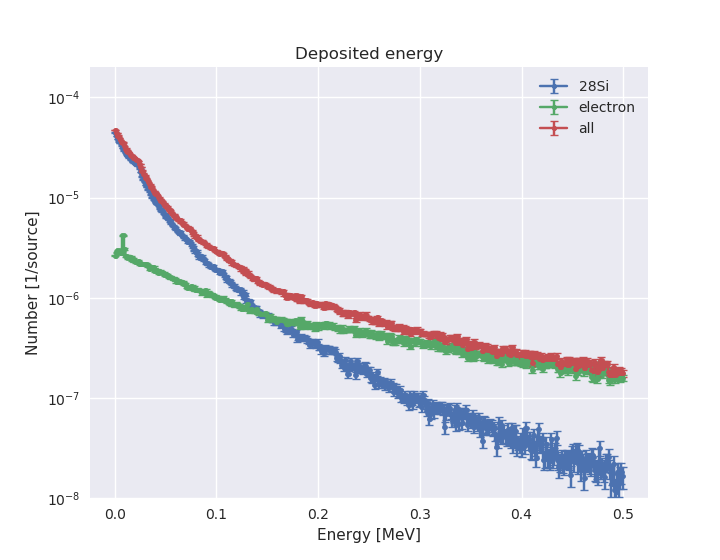
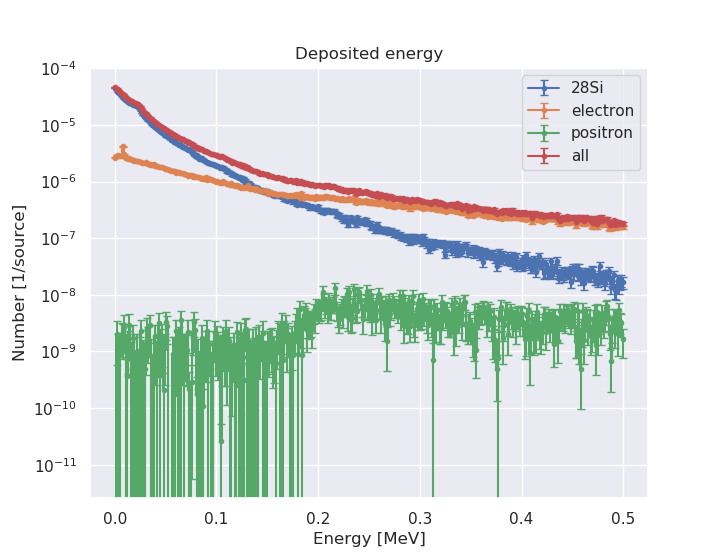
nuevos gráficos

diff --git a/exp_skccd_UnThinned/phits/grafica_depo.py b/exp_skccd_UnThinned/phits/grafica_depo.py
@@ -22,7 +22,7 @@ if __name__ == '__main__':
 
     fig, ax = plt.subplots(1, 1)
     particles = ['28Si', '25Mg', 'positron', 'electron', 'alpha', 'all']
-    particles = ['28Si', 'electron', 'all']
+    particles = ['28Si', 'electron', 'positron', 'all']
 #    particles = ['all']
 
     for zona in zonas:
@@ -43,7 +43,7 @@ if __name__ == '__main__':
             ax.set_xlabel('Energy [MeV]')
             ax.set_ylabel('Number [1/source]')
             ax.legend()
-            ax.set_ylim(1e-8, 2e-4)
+#            ax.set_ylim(1e-8, 2e-4)
         fig.gca().set_title('Deposited energy')
 
     fig.savefig('deposited_Si.png')
